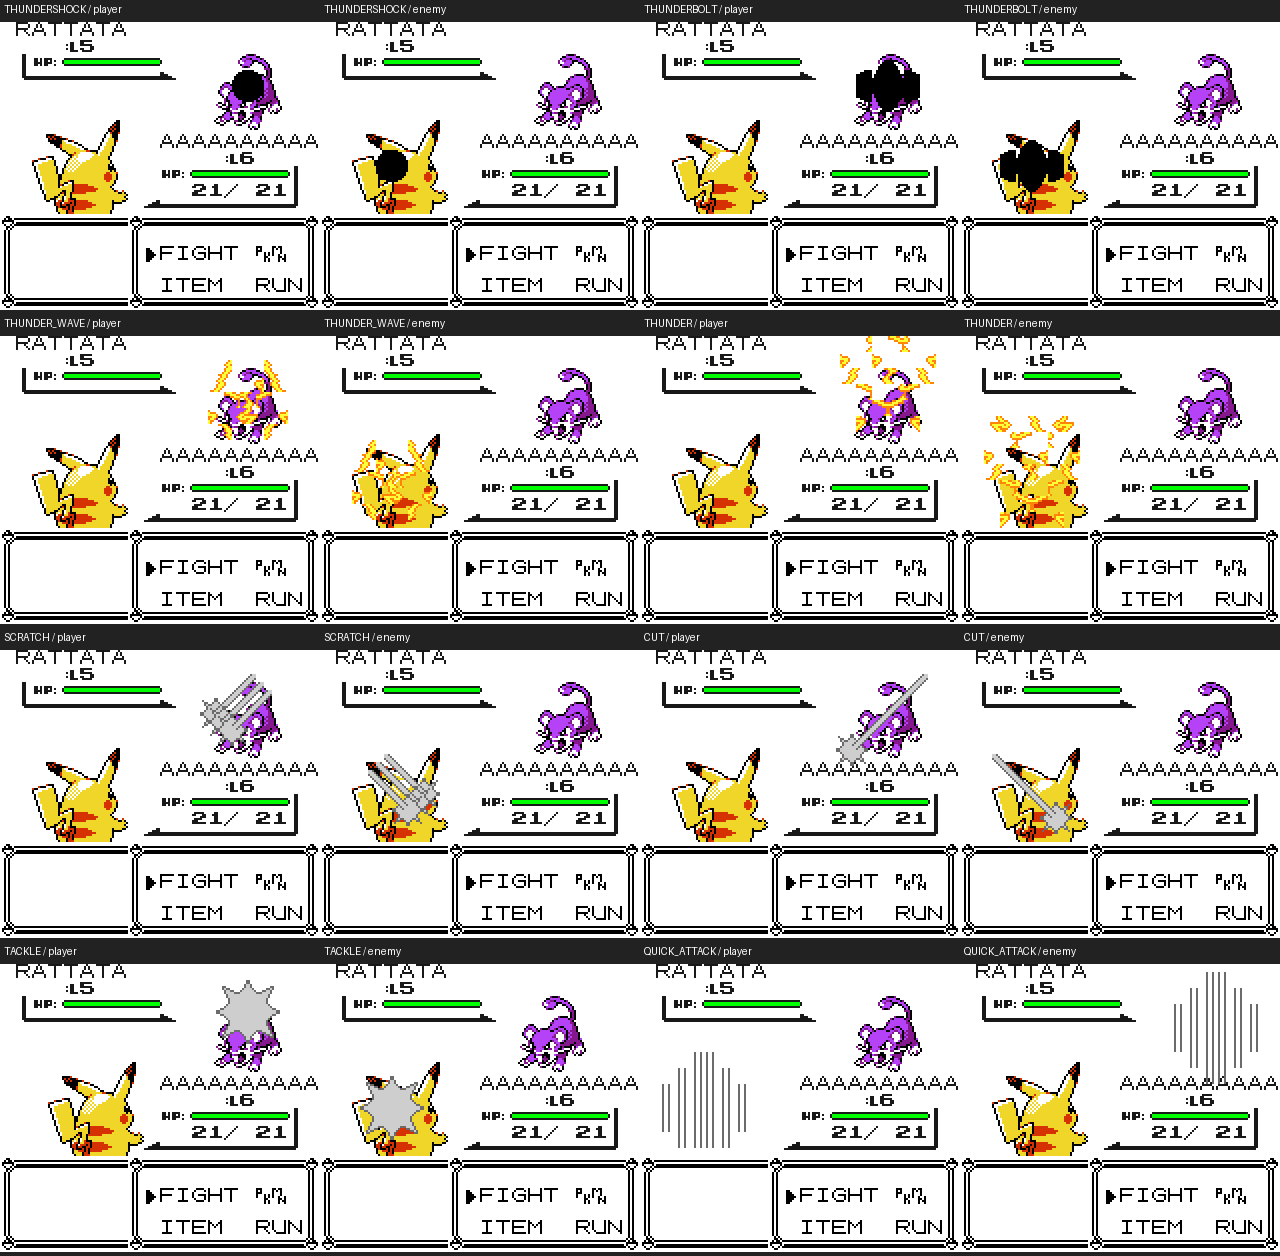
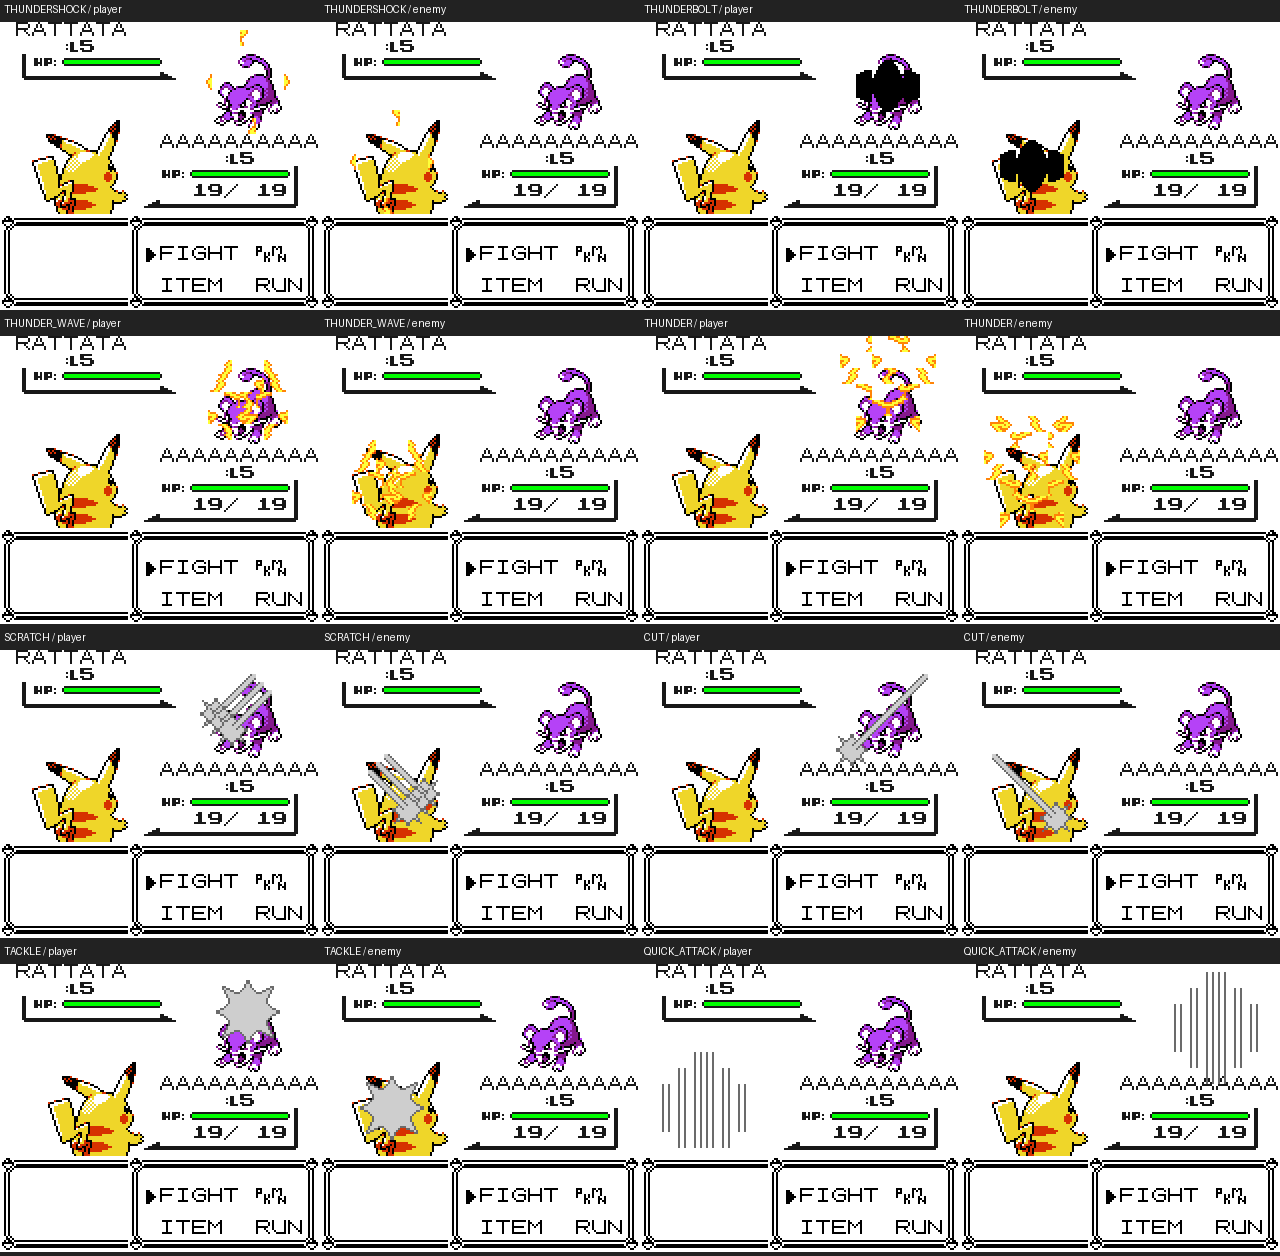
Release v0.1.5 with reworked ThunderShock and battle previews

Changed region(s): [[0.2812, 0.1242, 0.3438, 0.1553], [0.1562, 0.0621, 0.2188, 0.0932]]

diff --git a/scripts/build.py b/scripts/build.py
@@ -25,14 +25,14 @@ if version != 'rgbasm v1.0.3':
     parser.error(f'Expected rgbasm v1.0.3; got {version}')
 subprocess.run(['make', '-C', str(ROOT / 'src'), f'-j{min(os.cpu_count() or 2, 8)}', 'yellow', f'RGBDS={rgbds}/'], check=True)
 target = (ROOT / 'src/pokeyellow.gbc').read_bytes()
-patch = create(source, target, b'Pokemon Yellow Color 0.1.4; English Yellow UE; Gen 2 battle graphics')
+patch = create(source, target, b'Pokemon Yellow Color 0.1.5; English Yellow UE; Gen 2 battle graphics')
 assert apply(source, patch) == target
 (ROOT / 'dist').mkdir(exist_ok=True)
 (ROOT / 'build').mkdir(exist_ok=True)
 (ROOT / 'dist/PokemonYellowColor.bps').write_bytes(patch)
 shutil.copyfile(ROOT / 'src/pokeyellow.gbc', ROOT / 'build/PokemonYellowColor.gbc')
 manifest = {
-    'version': '0.1.4', 'status': 'preview', 'toolchain': version,
+    'version': '0.1.5', 'status': 'preview', 'toolchain': version,
     'source_sha1': hashlib.sha1(source).hexdigest(),
     'source_crc32': f'{zlib.crc32(source):08x}',
     'target_sha256': hashlib.sha256(target).hexdigest(),

diff --git a/scripts/bps.py b/scripts/bps.py
@@ -161,7 +161,7 @@ def main():
         verify_base(source)
         if args.output.exists():
             raise ValueError('Output already exists; choose a new filename')
-        output = create(source, data, b'Pokemon Yellow Color 0.1.4') if args.action == 'create' else apply(source, data)
+        output = create(source, data, b'Pokemon Yellow Color 0.1.5') if args.action == 'create' else apply(source, data)
         args.output.parent.mkdir(parents=True, exist_ok=True)
         args.output.write_bytes(output)
         print(f'{args.output}: {len(output):,} bytes; SHA-256 {hashlib.sha256(output).hexdigest()}')

diff --git a/docs/TESTING.md b/docs/TESTING.md
@@ -1,4 +1,4 @@
-# Version 0.1.4 verification
+# Version 0.1.5 verification
 
 The final clean build was tested with RGBDS 1.0.3, PyBoy 2.7.0, and SameBoy
 revision `213a12ce93d66b105a113debd9396306066a7cfc` on 2026-09-30.
@@ -20,6 +20,8 @@ The exact build and patch hashes are recorded in `dist/manifest.json`.
 | Healing pulse | SameBoy: one/six party members in Viridian and Fuchsia Centers; all eight phases alternate, NPC palettes restore, zero blocked VRAM/palette writes |
 | Item-fanfare synchronization | SameBoy: actual visible Potion and hidden Antidote pickups at all three speeds with no held button/A/B; both text rows match WRAM at the exact instruction that starts the sound |
 | Gen 2 battle effects | SameBoy: eight moves × both directions × three front/back pairs (48 cases); no picture-byte or BG-palette corruption, tilemap/OBJ palettes restored, no stale OAM, zero blocked VRAM/palette writes |
+| ThunderShock motion | Three distinct spark bursts and at least 12 distinct OAM arrangements in both directions across all three sprite pairs; only four spark sprites, with no opaque core |
+| ThunderShock battle turn | Button-selected move against a wild Pikachu fixture; both sides animate, take damage, and return to the menu; player PP decrements normally; hit sound follows the sparks within one frame; zero blocked LCD writes |
 | Effect hardware limits | At most 38 OAM entries and nine sprites on a scanline; tiles stay above the text box and inside the effect VRAM range |
 | Effect fallback | Animations-off option skips effects; Ember still uses the original engine; native dispatch bypasses the Gen 2 effect player |
 | Effect source regeneration | Imported PNG hashes and generated frames/timelines match the checked-in Gen 2 source data |
@@ -53,7 +55,7 @@ VRAM/palette writes as well as the end of graphics work.
 
 The walking comparison uses 512-frame button sequences in each location:
 
-| Scene | Original Yellow updates/sec | Before optimization | Version 0.1.4 |
+| Scene | Original Yellow updates/sec | Before optimization | Version 0.1.5 |
 | --- | ---: | ---: | ---: |
 | Oak's lab, center | 28.81 | 19.71 | 29.86 |
 | Oak's lab, lower floor | 28.11 | 19.25 | 29.86 |
@@ -98,7 +100,18 @@ It inspects both attack directions each frame and compares the sprite graphics,
 background palettes, and final tilemap against their pre-animation values.
 This isolates visual behavior; it is not a complete combat-rules test. Opening
 playthrough coverage separately exercises the new effects during a real battle.
-The contact sheet and GIFs show these emulator fixtures, including test names.
+The effect matrix contact sheet and GIFs show these emulator fixtures, including test names.
+
+The additional ThunderShock capture uses a normal battle turn after setting the
+wild encounter, nickname and available moves in test RAM. Button input selects
+the attack and advances text; the game handles both attacks, damage, PP and the
+return to its menu. The README GIF now comes from this capture, with an
+[opponent-side preview](screenshots/thundershock_enemy.gif) and
+[chronological frames](screenshots/thundershock_sequence.png) showing expansion
+and the clear intervals. The hit sound begins within one frame of the final burst.
+GIF delays alternate between 30 and 40 ms to preserve the Game Boy's frame rate
+when sampling every other frame. This is a visual adaptation of the Gen 2
+sparks; automated motion/safety checks alone do not establish visual quality.
 
 Machine-readable results are preserved in `docs/verification/`; screenshots
 are in `docs/screenshots/`. Re-running the scripts produces fresh results in
@@ -118,6 +131,7 @@ make -C .cache/sameboy -j4 build/lib/libsameboy.a bootroms RGBDS=../../.cache/rg
 .venv/bin/python scripts/verify_hardware_scenes.py
 .venv/bin/python scripts/verify_feedback.py
 .venv/bin/python scripts/verify_battle_effects.py
+.venv/bin/python scripts/verify_thundershock.py
 ```
 
 The performance comparison also expects the exact original ROM and its matching

diff --git a/dist/RELEASE_NOTES.md b/dist/RELEASE_NOTES.md
@@ -1,23 +1,22 @@
-# Pokémon Yellow Color 0.1.4 — preview
+# Pokémon Yellow Color 0.1.5 — preview
 
-Fixes Pokémon Center healing balls and monitors remaining static. Their
-original eight-phase pulse now changes a dedicated red/white CGB palette,
-without recoloring Center NPCs, and restores the normal palettes afterward.
+Reworks ThunderShock into three short bursts of expanding, moving Gen 2 sparks.
+The opaque black core is gone, the Pokémon remains visible, and the sound starts
+with the first sparks. The final burst ends with the sound and leads straight
+into the hit reaction. The new 92-frame effect replaces the previous 112-frame
+sequence. Its motion and timing are adapted for Yellow, using unchanged Crystal
+spark artwork. The other seven adapted moves retain their existing sequences.
 
-Fixes item fanfares starting before the last letters appear. Text-command
-sounds now wait for the preceding text to reach the screen, including fast
-text and A/B acceleration. Hidden pickups use the same synchronization.
+The README preview now shows the revised effect during a button-driven battle
+turn. Both attack directions have been checked across three sprite pairs, with
+additional checks for the three bursts, visible movement, palette restoration,
+sprite limits and safe LCD writes. A complete ThunderShock turn verifies both
+attacks, damage, player PP consumption and return to the battle menu.
 
-Adds adapted Gen 2 battle effects for ThunderShock, Thunderbolt, Thunder Wave,
-Thunder, Scratch, Cut, Tackle, and Quick Attack. These use Crystal's effect
-artwork, palettes, OAM layouts, and frame sequences, placed for Yellow's front
-and back sprites. Effects stay above the text box and restore their palettes.
-This is a selected-effects port, not the complete Gen 2 animation engine;
-Yellow's sounds, damage/status rules, animation option, and other moves remain.
-
-Includes the double-speed performance work, progressive text, building/interior/
-NPC colors, yellow Pikachu portraits, and all 151 Gen 2 front/back sprites from
-previous versions.
+Includes the healing pulses, synchronized item jingles, double-speed performance
+work, progressive text, overworld colors, yellow Pikachu portraits, and all 151
+Gen 2 front/back sprites from previous versions. The existing regression suite
+was rerun for this build; see `docs/TESTING.md` for results and limitations.
 
 Apply `PokemonYellowColor.bps` to unmodified English USA/Europe Yellow:
 
@@ -27,14 +26,6 @@ Apply `PokemonYellowColor.bps` to unmodified English USA/Europe Yellow:
 
 Apply to the original ROM, not a previously patched version. The output is a
 2 MiB GBC-compatible ROM. Only the patch and checksum manifest are release assets.
-
-New SameBoy checks cover healing with one/six party members, 18 text speed/
-button combinations at the exact fanfare start, and 48 animation combinations:
-eight moves × both directions × three sprite pairs. They check sprite limits,
-text-box clipping, unchanged Pokémon graphics, restored tilemaps/palettes, and
-blocked LCD writes. Animation-off and native fallback paths are also checked.
-The existing opening, sprite, portrait, map, text, save, surfing, performance,
-and hardware timing checks remain in place. See `docs/TESTING.md`.
 
 This remains a playable preview: a complete playthrough and physical hardware/
 link testing remain outstanding. Old emulator save states are build-specific;

diff --git a/README.md b/README.md
@@ -1,7 +1,7 @@
 # Pokémon Yellow Color
 
 A playable Game Boy Color enhancement of English Pokémon Yellow, with per-tile
-overworld colors and Gen 2 battle graphics. **Version 0.1.4 is a preview build:**
+overworld colors and Gen 2 battle graphics. **Version 0.1.5 is a preview build:**
 the opening, all tilesets, sprite loaders, menus, saving, and surfing minigame
 have automated checks; a complete playthrough and physical hardware testing
 are still outstanding.
@@ -40,6 +40,7 @@ checksums are in [dist/manifest.json](dist/manifest.json).
 - Eight moves use adapted Gen 2 effect artwork and frame sequences: ThunderShock,
   Thunderbolt, Thunder Wave, Thunder, Scratch, Cut, Tackle, and Quick Attack.
   Effects have their own palettes and stay above the battle text box.
+  ThunderShock uses three moving spark bursts, with no opaque disk over the target.
 - Pikachu's follower and reaction portraits have yellow fur. All 61 portrait
   graphics, including partial animation patches, have separate fur/background
   colors, with white eye highlights and red-orange cheeks.
@@ -61,7 +62,7 @@ checksums are in [dist/manifest.json](dist/manifest.json).
 ![Gen 2 Pikachu and Eevee in battle](docs/screenshots/battle.png)
 ![Yellow Pikachu reaction portrait](docs/screenshots/portrait.png)
 
-![Gen 2 ThunderShock in Yellow](docs/screenshots/thundershock.gif)
+![Reworked ThunderShock during a battle turn](docs/screenshots/thundershock.gif)
 ![Pokémon Center healing pulse](docs/screenshots/healing_pulse.gif)
 
 ## Build and verify

diff --git a/docs/UPSTREAM.md b/docs/UPSTREAM.md
@@ -86,10 +86,15 @@ verifies generated assembly from the checked-in data.
 
 This is an adaptation of selected effects, not Crystal's complete animation
 engine. Yellow keeps its sound effects, damage/status logic, animation option,
-and other moves. ThunderShock/Thunderbolt use the Gen 2 flickering core and
-spark frames without the small circular core motion or full-screen palette
-inversion. Tackle retains Yellow's lunge and uses the Gen 2 impact. Quick Attack
-uses Gen 2 speed lines and an impact, with the user hidden during the dash.
+and other moves. ThunderShock uses Crystal's unchanged spark pixels in a new
+92-frame sequence: three expanding bursts, short clear intervals, and a
+two-pixel orbit mirrored for each attack direction. It omits the opaque
+explosion core that obscured the target in 0.1.4, and starts the sound with the
+sparks. This motion/timing is an adaptation, not Crystal's original sequence.
+Thunderbolt retains its Gen 2 core/spark frames without the small circular core
+motion or full-screen inversion. Tackle retains Yellow's lunge and uses the
+Gen 2 impact. Quick Attack uses Gen 2 speed lines and an impact, with the user
+hidden during the dash.
 Coordinates are adapted separately for front/back targets, and effect tiles
 are clipped above the text box. OAM palettes 6/7 carry gray/electric colors;
 original palettes are restored afterward. Graphics use only the existing
